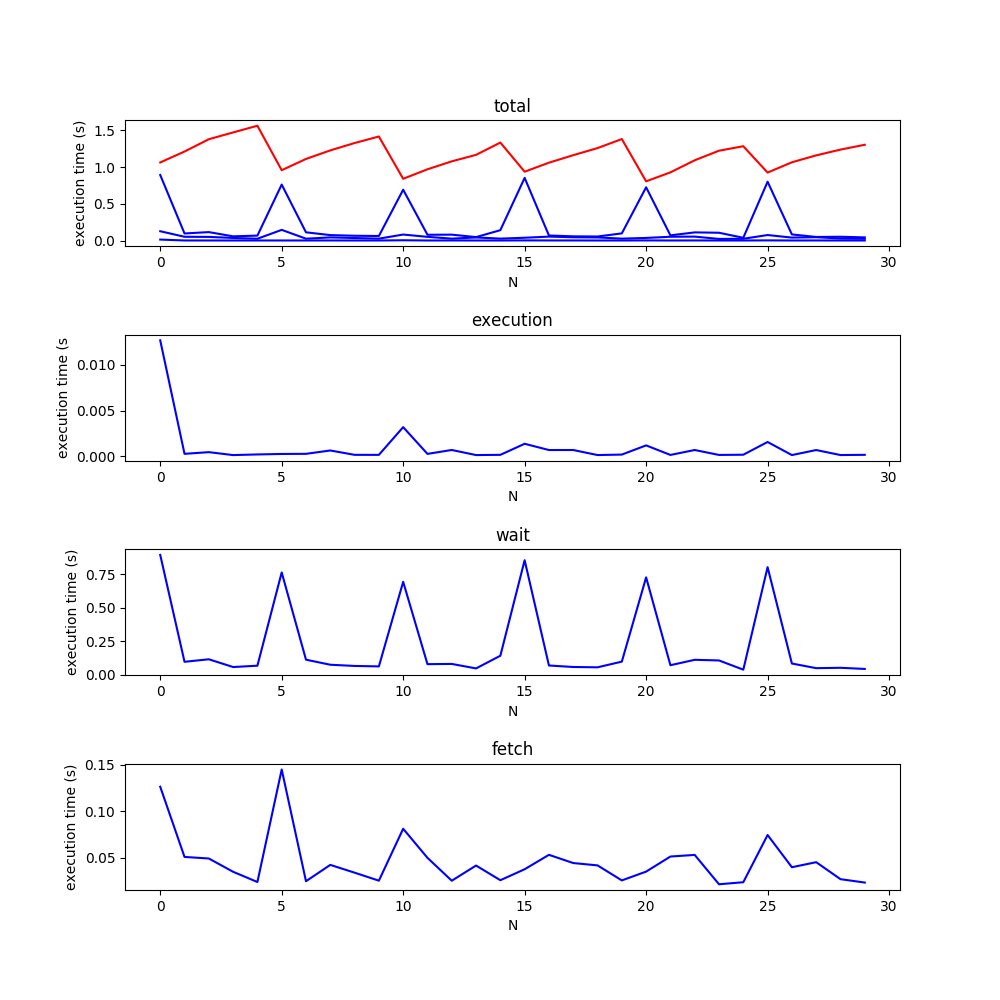
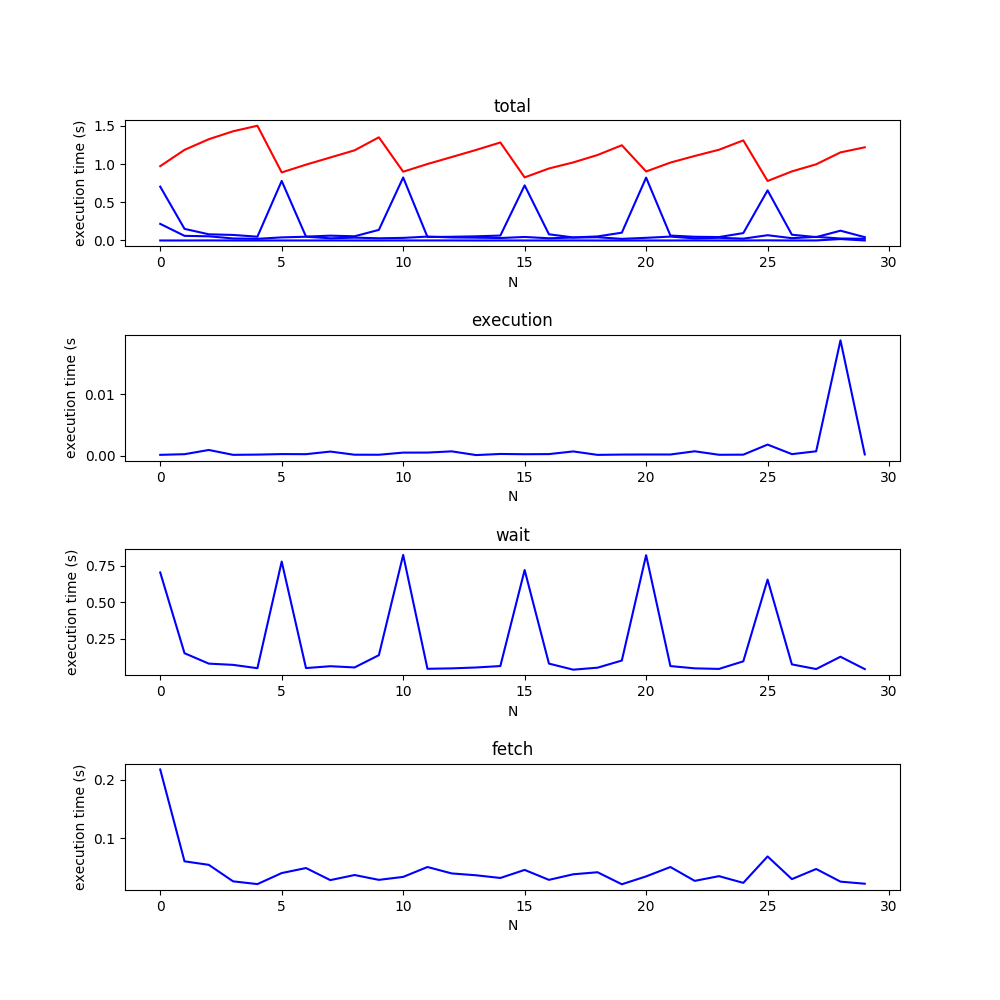
multithreading debut

diff --git a/starters.py b/starters.py
@@ -5,6 +5,8 @@ from psycopg2 import OperationalError
 from psycopg2 import sql
 from psycopg2 import pool
 #from psycopg2 import wait_select
+from concurrent.futures import ThreadPoolExecutor, as_completed
+import concurrent.futures
 import queries as qu
 import connections as co
 import bd
@@ -23,9 +25,6 @@ def exe_query_Ntimes_pool(query, N):
         times.append(results[1])
     pool.closeall
     bd.plot_perf(times,'chart_pool')
-
-
-
 
 def wait(conn):
     while True:
@@ -99,7 +98,7 @@ def query_async_pool_Ntimes(query,N,nbpool):
 
     while counter < N :
 
-        print("Starting queries")
+        print("Starting connections and queries")
         while dispo != 0:
             aconn  = pool.getconn()
             dispo = dispo -1
@@ -136,6 +135,7 @@ def query_async_pool_Ntimes(query,N,nbpool):
             end_fetch = time.perf_counter()
             runtime_fetchall = end_fetch - ewait
             times_fetch.append(runtime_fetchall)
+
             total = end_fetch - start
             times_total.append(total)
 
@@ -153,6 +153,83 @@ def query_async_pool_Ntimes(query,N,nbpool):
     #bd.plot_perf(times_fetch,'fetch')
     bd.plot_fig(times_exe,times_wait,times_fetch,times_total, 'test_async_pool_perf')
     #Use this method to release the connection object and send back ti connection pool
+
+
+
+def task_getconn(conn_pool):
+    aconn  = conn_pool.getconn()
+    wait(aconn)
+    print("get conn ok")
+    return aconn
+
+def task_test():
+    return 10
+
+def task_execute(aconn):
+    #psycopg2.extras.wait_select(aconn)
+    #print("wait aconn ok")
+    q1 = "SELECT ST_AsGDALRaster(ST_Union(altifr_75m_0150_6825.rast), 'GTiff') FROM altifr_75m_0150_6825"
+    acurs = aconn.cursor()
+    acurs.execute(q1)
+    print("execute query ok")
+    return acurs
+
+def task_wait_fetch(curs):
+    wait(curs.connection)
+    result = curs.fetchall()
+    qu.test_raster_results(result)
+    print("query done")
+    
+
+def start_multithreading(N,nbthreads,nbpool,query):
+#https://www.tutorialspoint.com/concurrency_in_python/concurrency_in_python_pool_of_threads.htm
+    pool = co.create_connection_pool(1,nbpool,"postgis_test","postgres","admin","localhost","5432",1)
+
+    connection_manager = ThreadPoolExecutor(max_workers=nbpool)
+    query_executor = ThreadPoolExecutor(max_workers=nbthreads)
+    query_fetcher = ThreadPoolExecutor(max_workers=nbthreads)
+
+    count = 0
+    results = []
+
+    connections = []
+    cursors = []
+    dispo = nbpool 
+
+    while count < N:
+ 
+        with ThreadPoolExecutor(max_workers = 3) as executor:
+            futures = []
+            while len(connections) < N and dispo != 0:
+                futures.append(executor.submit(task_getconn,pool))
+                dispo = dispo -1
+
+            for f in as_completed(futures):
+                connections.append(f.result())
+
+
+        with ThreadPoolExecutor(max_workers = 3) as executor:
+            #executor.submit(task_execute, (connections,query)).result
+            #cursors.append(executor.map(task_execute, (connections,query)).result)
+            cursors_list = executor.map(task_execute, connections)
+
+            for cur in cursors_list:
+                cursors.append(cur)
+
+            print(len(cursors))
+         
+
+        with ThreadPoolExecutor(max_workers = 3) as executor:
+            results = executor.map(task_wait_fetch, cursors)
+            print("fetch")
+            for curs in cursors:
+                pool.putconn(connections[cursors.index(curs)])
+            count += 1
+
+
+        
+
+
 
 
 def get_queries(file):

diff --git a/bd.py b/bd.py
@@ -103,7 +103,9 @@ def main():
 	q1 = "SELECT ST_AsGDALRaster(ST_Union(altifr_75m_0150_6825.rast), 'GTiff') FROM altifr_75m_0150_6825"
 	#starters.exe_query_Ntimes_pool(q1, 5)
 	#starters.exe_query_async_Ntimes(q1,5)
-	starters.query_async_pool_Ntimes(q1,10,10)
+	#starters.query_async_pool_Ntimes(q1,30,5)
+	#starters.start_multithreading(N,nbthreads,nbpool,query)
+	starters.start_multithreading(10,3,5,q1)
 
 if __name__== "__main__" :
 	main()
